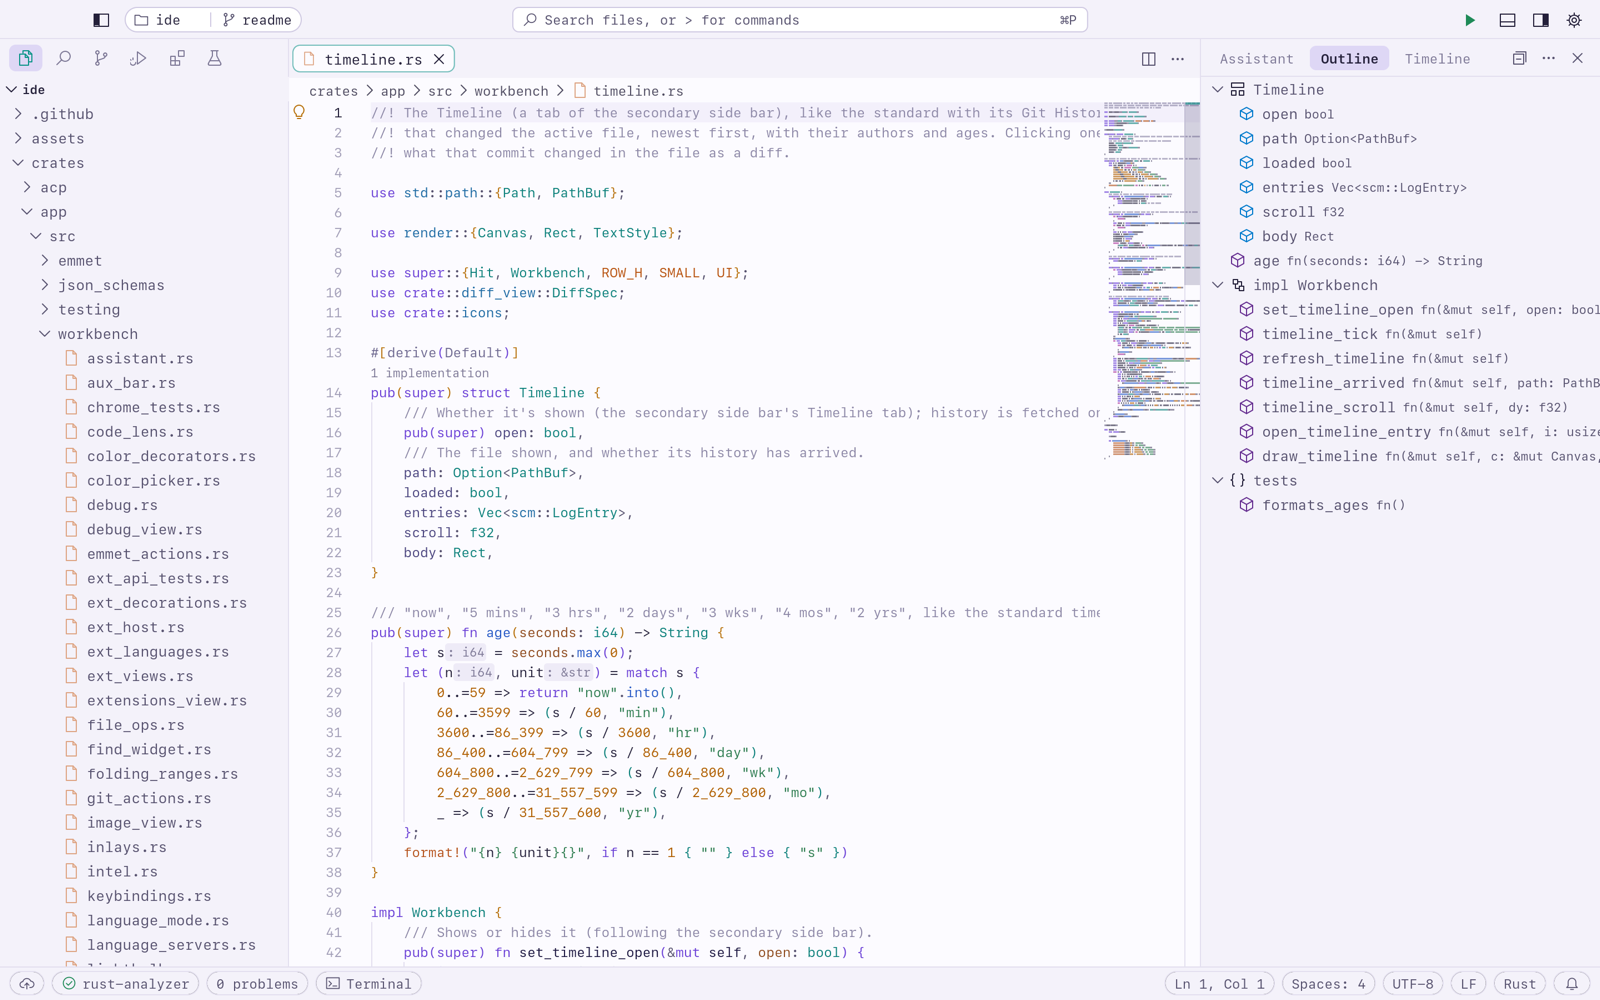
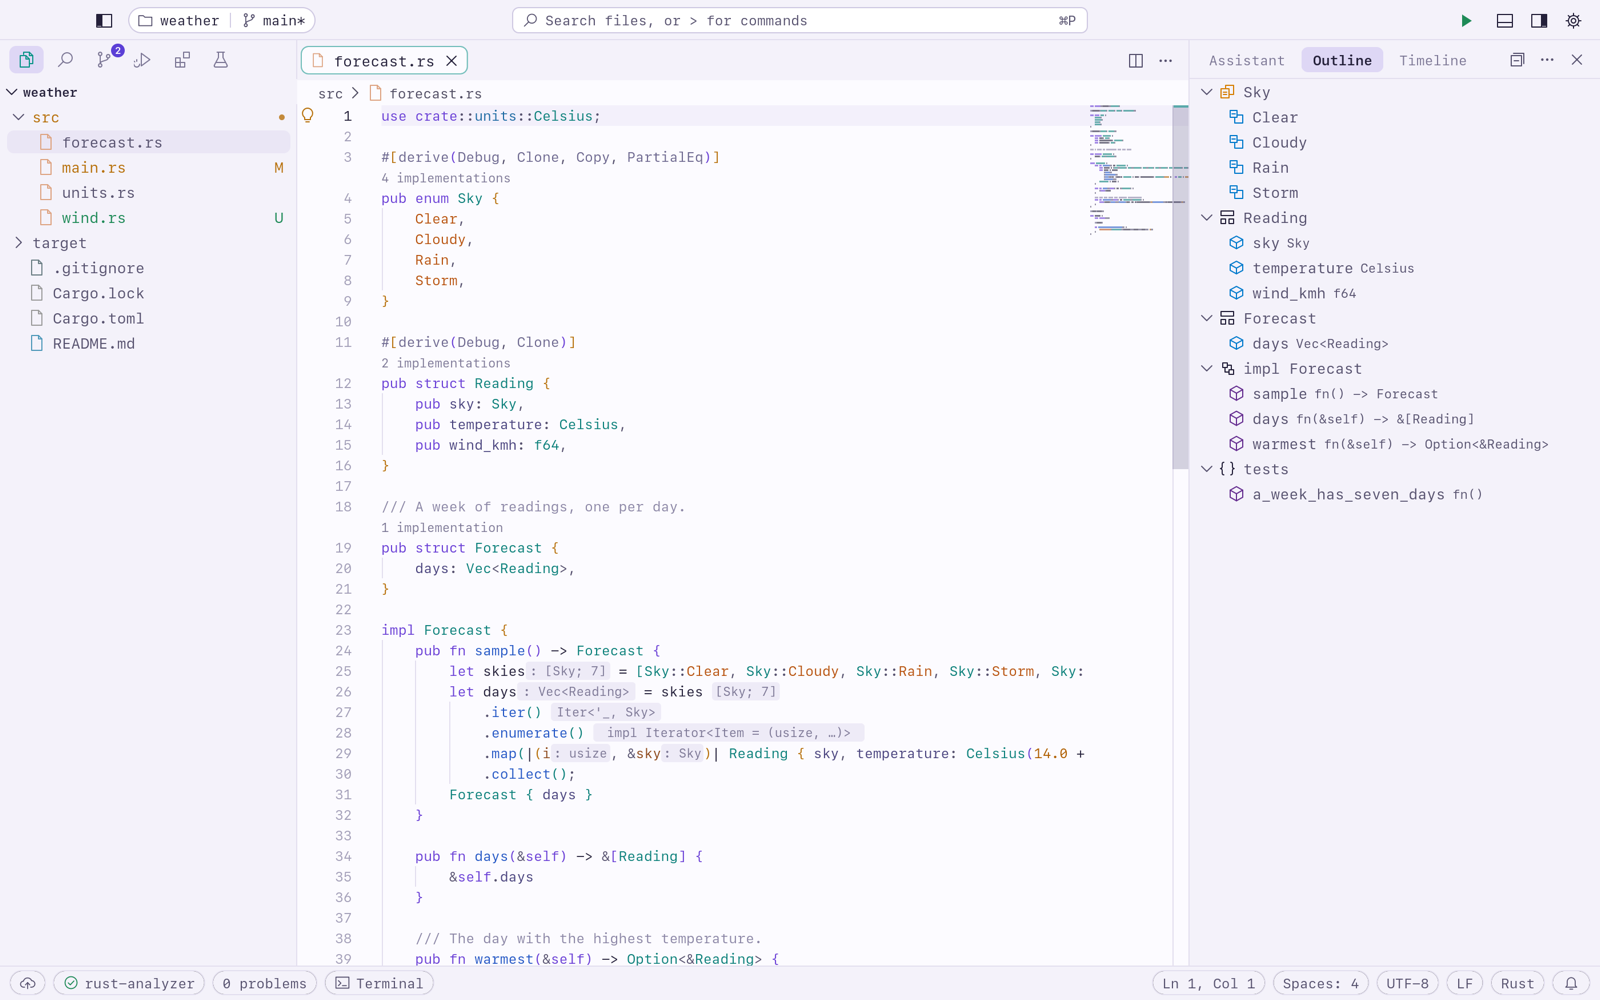
README: screenshots of four views, and Accessibility under Features
New screenshots of a small demo project: the main one in both themes
(the Explorer, a Rust file with inlay hints and code lenses, the
Outline), and under it Source Control, the palette, the Settings
sheet and a terminal. Accessibility is now a Features section
(VoiceOver, input methods); the known limitation is down to what
VoiceOver doesn't read yet (the terminal's output, the Debug
Console).

diff --git a/README.md b/README.md
@@ -28,6 +28,17 @@ drawn by its own GPU toolkit.</p>
   </picture>
 </p>
 
+<table>
+  <tr>
+    <td width="50%"><img alt="Source Control with two changed files and the graph" src="assets/screenshots/scm.png"><br><sub>Source Control</sub></td>
+    <td width="50%"><img alt="The command palette over the editor" src="assets/screenshots/palette.png"><br><sub>The palette</sub></td>
+  </tr>
+  <tr>
+    <td width="50%"><img alt="The Settings sheet with its contents and common settings" src="assets/screenshots/settings.png"><br><sub>Settings</sub></td>
+    <td width="50%"><img alt="A terminal in the panel under the editor" src="assets/screenshots/terminal.png"><br><sub>Terminal</sub></td>
+  </tr>
+</table>
+
 ## Why Orbvane
 
 - **Native, all the way down.** No browser engine and no web view: a Metal renderer, native menus
@@ -356,6 +367,29 @@ file. Search, Go to File, language servers, tests and source control cover every
 
 </details>
 
+<details>
+<summary><b>Accessibility</b>: VoiceOver and input methods</summary>
+
+<br>
+
+- **VoiceOver** (⌘F5) reads the window through macOS's own accessibility interfaces:
+  - **The editor:** its text by character, word and line, the caret and the selection, and it
+    follows as you move or type. Moving VoiceOver's cursor moves the caret.
+  - **Lists you move through:** the Explorer and the palette (Go to File, commands, every picker)
+    read each row as you arrow through ("src, folder, expanded", "main.rs, modified").
+  - **Lists you browse:** Problems, Source Control's changes, Search's results, Run and Debug's
+    sections and the Assistant's conversation.
+  - **Controls:** buttons, tabs (the shown one selected), toggles with their state and text
+    fields, in the toolbar, the views, the panel, the status bar and the find widget. Each can be
+    pressed from VoiceOver.
+  - **Settings:** each setting with its value, and its description as help.
+  - **Said as it happens:** the selected suggestion while you type, and an agent's reply or
+    question in the Assistant.
+- **Input methods:** Chinese, Japanese and Korean input with the candidate window at the caret,
+  in the editor, the palette, text fields and the terminal; wide characters take two columns.
+
+</details>
+
 ## Keyboard shortcuts
 
 These are the defaults. Change any of them with ⌘K ⌘S, or in `keybindings.json`
@@ -500,13 +534,7 @@ Every setting is listed with its description in the Settings sheet.
 - **Language features come from language servers.** Orbvane offers to install a missing one, but
   some languages have only highlighting until you do.
 - **Debugging:** native debugging uses `lldb-dap` from the Command Line Tools.
-- **Accessibility:** VoiceOver reads and follows the editor's text, the Explorer and the palette as
-  you move through them, the Problems, Source Control and Search lists, and says the selected
-  suggestion while you type. Buttons, tabs, toggles and text fields are named and can be pressed
-  or read, and so are the Settings sheet's settings (with their descriptions), Run and Debug's
-  sections and the Assistant's conversation; an agent's reply and its questions are read out as
-  they arrive. The terminal's output and the Debug Console aren't read yet, and reports from
-  VoiceOver users are welcome ([#2](https://github.com/sbaruwal/orbvane/issues/2)).
+- **Accessibility:** VoiceOver doesn't read the terminal's output or the Debug Console yet.
 - **Assistant:** Codex (and Claude Code with `assistant.editorFiles` off) reads files from disk, so
   Orbvane saves your unsaved changes before each message (`assistant.saveBeforeSending`).
 
